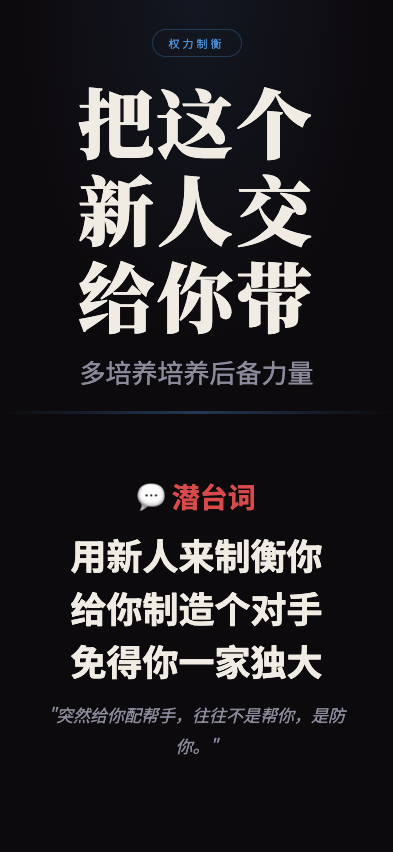
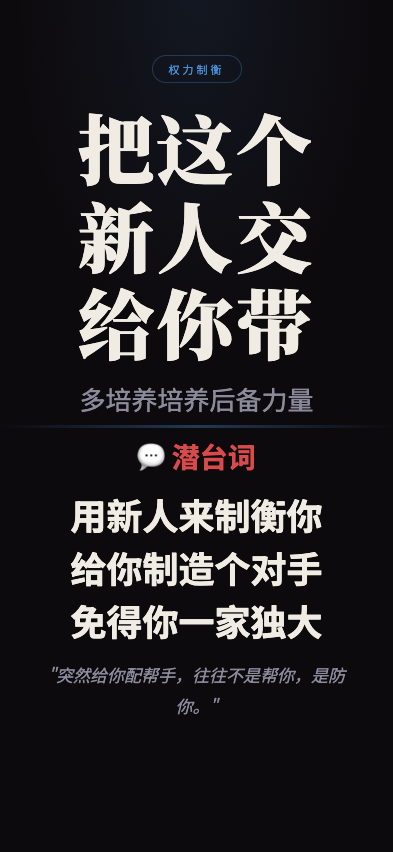
feat: 职场生存法则 screenshot - bagezenxindongrenjiaonigei

Changed region(s): [[0.1221, 0.0305, 0.8855, 0.885]]

diff --git a/wuliao-tools/tools/biz-speak/scenes/bagezenxindongrenjiaonigei.html b/wuliao-tools/tools/biz-speak/scenes/bagezenxindongrenjiaonigei.html
@@ -27,12 +27,12 @@
     background:radial-gradient(ellipse at 50% 0%, rgba(74,144,217,0.1) 0%, transparent 65%);
     pointer-events:none; z-index:0;
   }
-  .top { flex:1; display:flex; flex-direction:column; align-items:center; justify-content:center; padding:16px 28px 8px; position:relative; z-index:1; }
+  .top { flex:1; display:flex; flex-direction:column; align-items:center; justify-content:flex-end; padding:4px 28px 8px; position:relative; z-index:1; }
   .tag { font-size:11px; letter-spacing:3px; color:var(--gold); border:1px solid rgba(74,144,217,0.3); padding:5px 16px; border-radius:50px; margin-bottom:20px; }
   .main-title { font-family:'Noto Serif SC'; font-size:76px; font-weight:900; text-align:center; line-height:1.15; letter-spacing:3px; max-width:92%; overflow-wrap:break-word; }
   .sub-title { font-size:26px; color:var(--text-dim); text-align:center; margin-top:14px; }
   .divider { width:100%; height:3px; background:linear-gradient(90deg,transparent,var(--gold),transparent); opacity:0.35; flex-shrink:0; position:relative; z-index:1; }
-  .bottom { flex:1; display:flex; flex-direction:column; align-items:center; justify-content:center; padding:12px 28px 40px; position:relative; z-index:1; }
+  .bottom { flex:1; display:flex; flex-direction:column; align-items:center; justify-content:flex-start; padding:8px 28px 4px; position:relative; z-index:1; }
   .truth-label { font-size:28px; font-weight:700; color:var(--red); display:flex; align-items:center; gap:10px; margin-bottom:16px; }
   .truth-lines { display:flex; flex-direction:column; align-items:center; gap:10px; }
   .truth-line { font-size:36px; font-weight:700; color:var(--text); text-align:center; line-height:1.2; }
